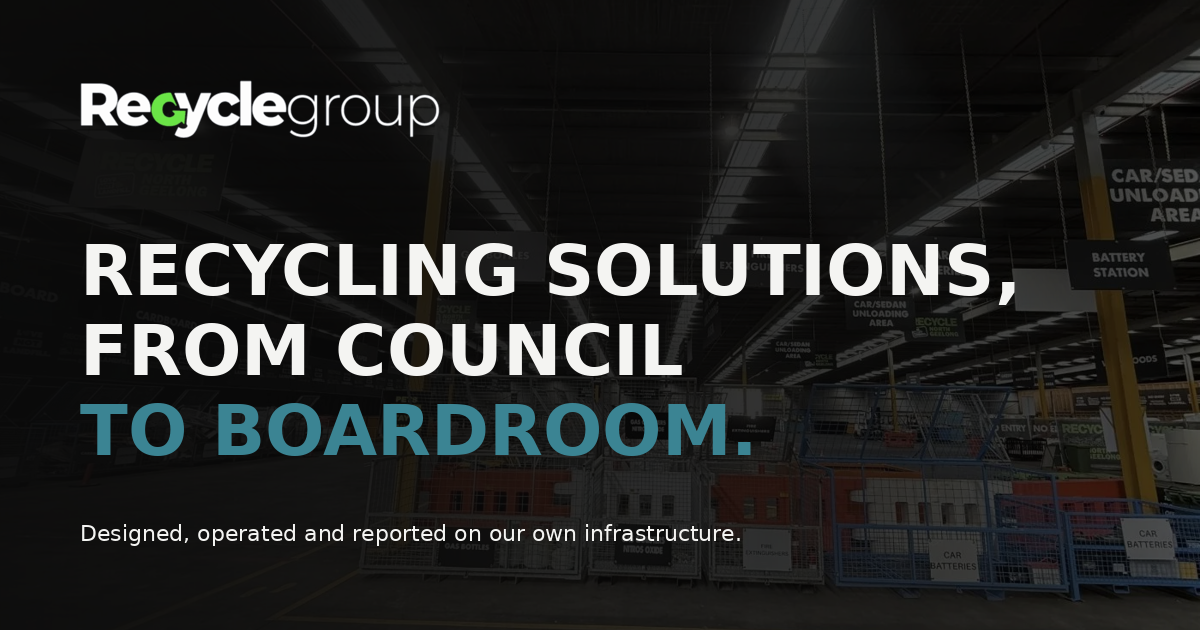
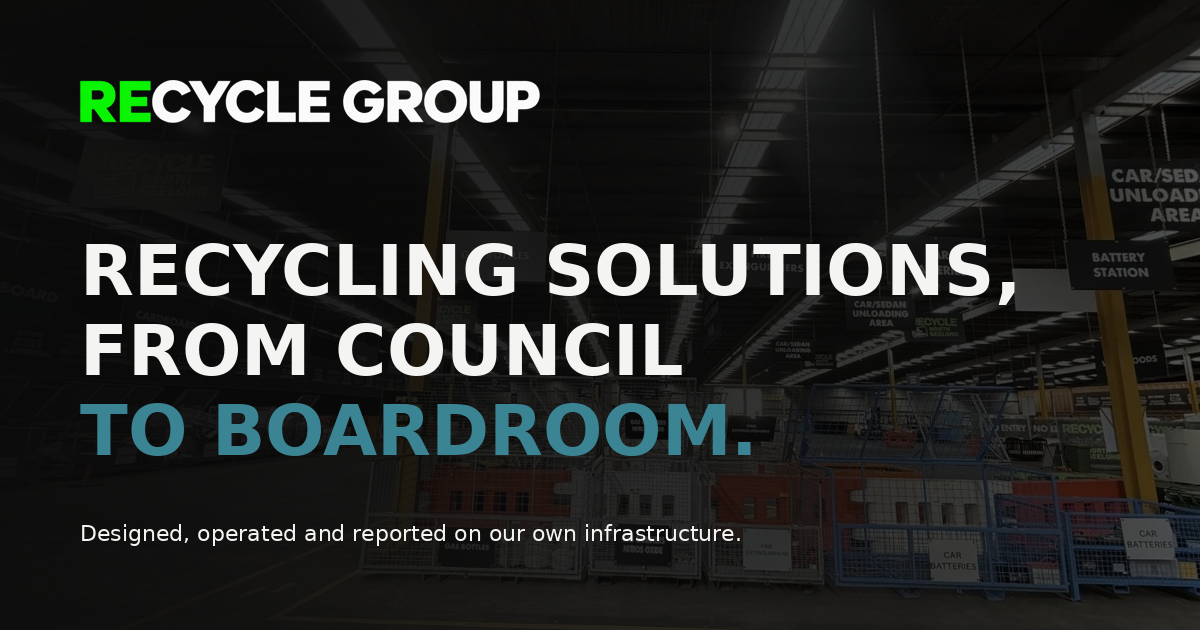
New RECYCLE GROUP wordmark (green RE) in nav, footer and OG image

Changed region(s): [[0.0617, 0.1206, 0.4625, 0.2111]]

diff --git a/docs/css/main.css b/docs/css/main.css
@@ -40,7 +40,7 @@ img{display:block;max-width:100%}
 /* nav */
 nav.top{position:sticky;top:0;z-index:100;background:rgba(14,17,20,.9);backdrop-filter:blur(10px);border-bottom:1px solid var(--line)}
 nav.top .wrap{display:flex;align-items:center;justify-content:space-between;height:74px;gap:24px}
-.logo-img{height:28px;width:auto;display:block}
+.logo-img{height:22px;width:auto;display:block}
 .nav-links{display:flex;gap:26px;font-family:var(--display);font-size:11.5px;font-weight:600;letter-spacing:.12em;text-transform:uppercase}
 .nav-links a{padding:6px 0;border-bottom:1px solid transparent;color:var(--muted);transition:color .2s,border-color .2s;white-space:nowrap}
 .nav-links a:hover{color:var(--text)}
